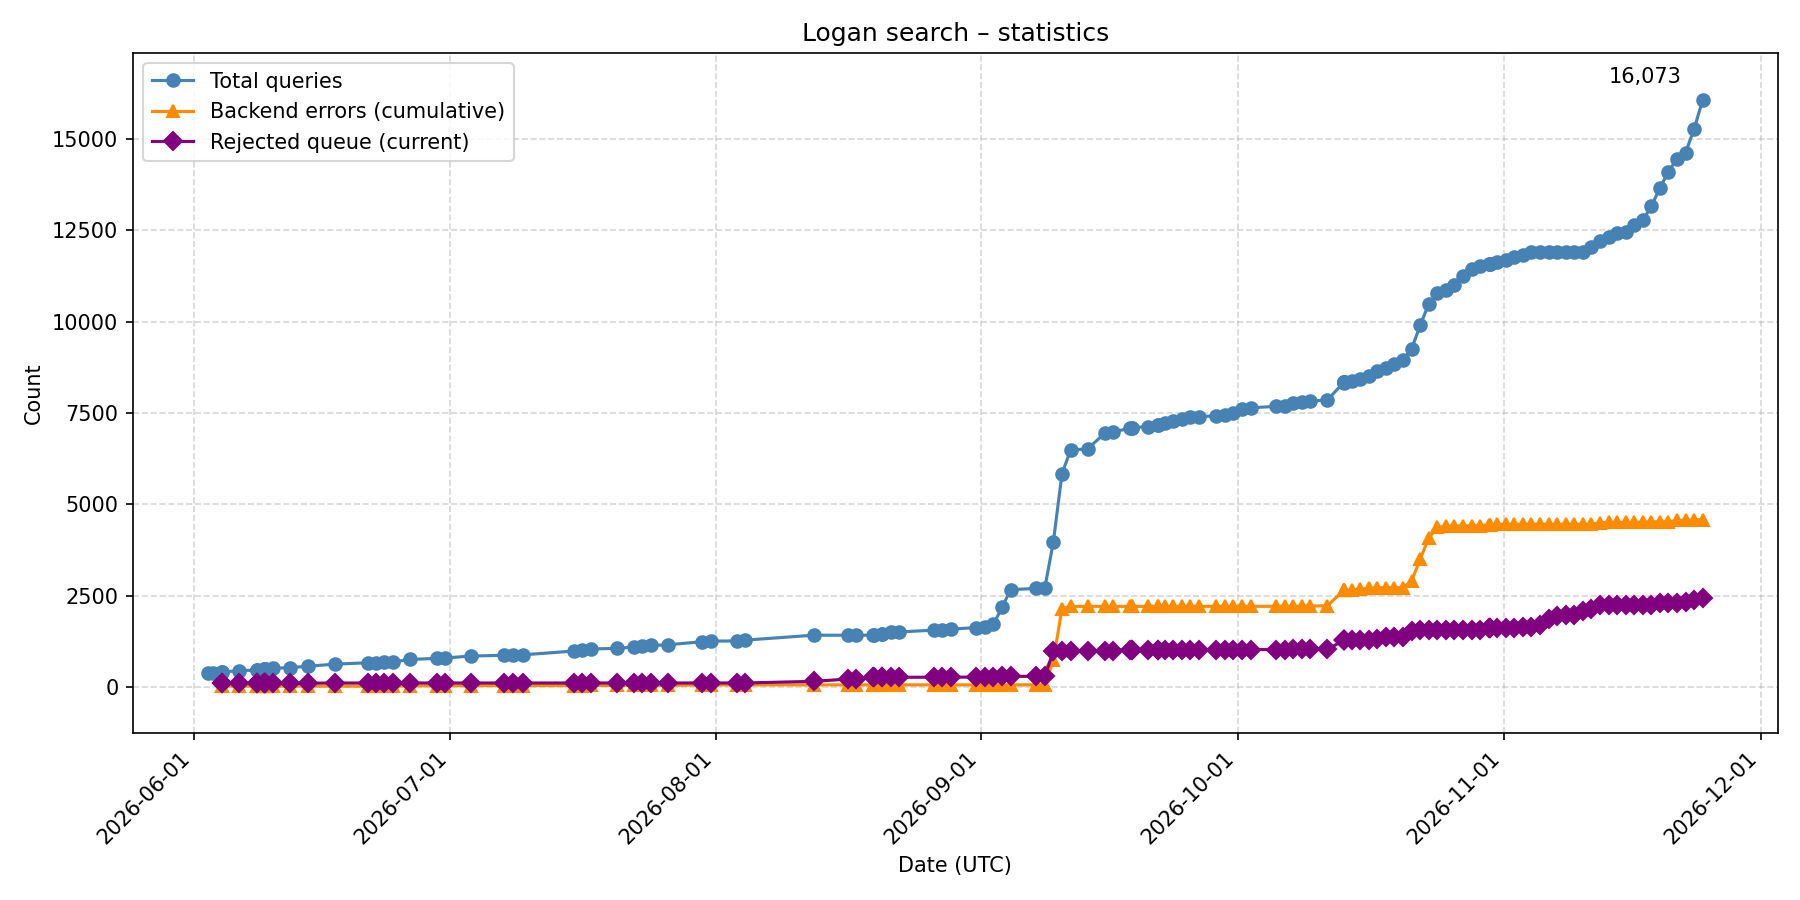
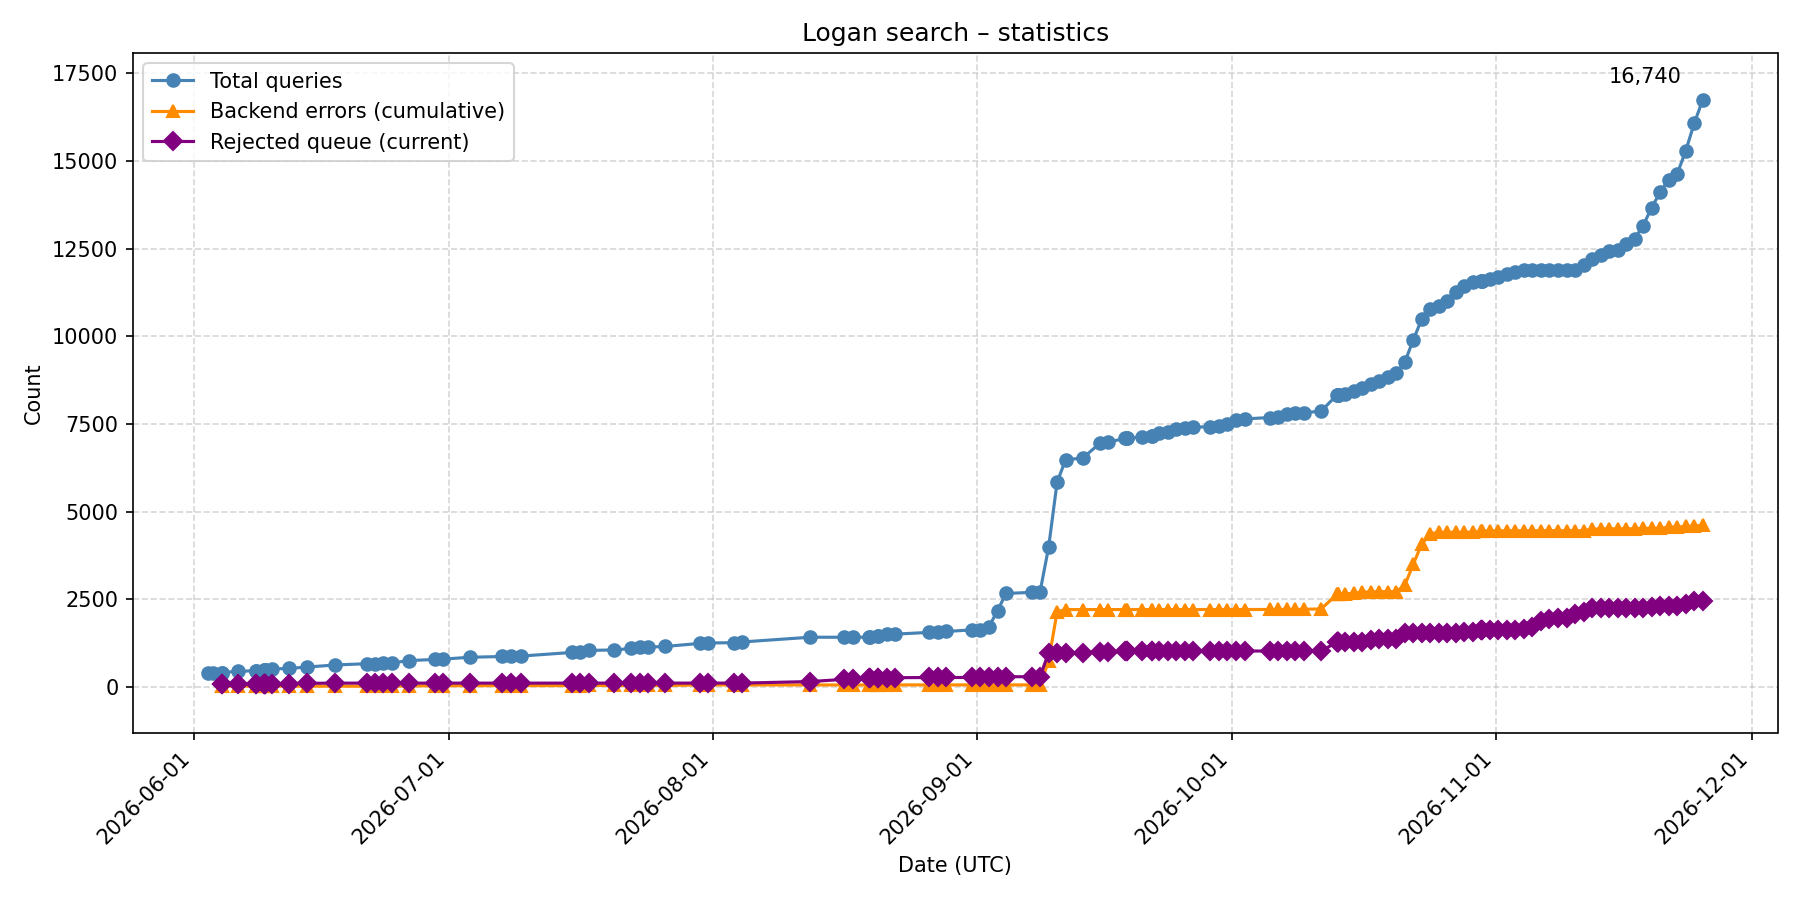
Update statistics 2026-11-25

diff --git a/README.md b/README.md
@@ -5,8 +5,8 @@ Usage statistics of [Logan Search](https://logan-search.org), updated once a day
 ## Yesterday
 
 <!-- daily-queries:start -->
-**Queries on 2026-11-23 (UTC): 777** on the backend (BRC Analytics history).
-The logan-search.org counter increased by 786 between 2026-11-23 06:00 and 2026-11-24 06:00 UTC.
+**Queries on 2026-11-24 (UTC): 576** on the backend (BRC Analytics history).
+The logan-search.org counter increased by 667 between 2026-11-24 06:00 and 2026-11-25 06:00 UTC.
 <!-- daily-queries:end -->
 
 ## Queries made on logan-search.org
